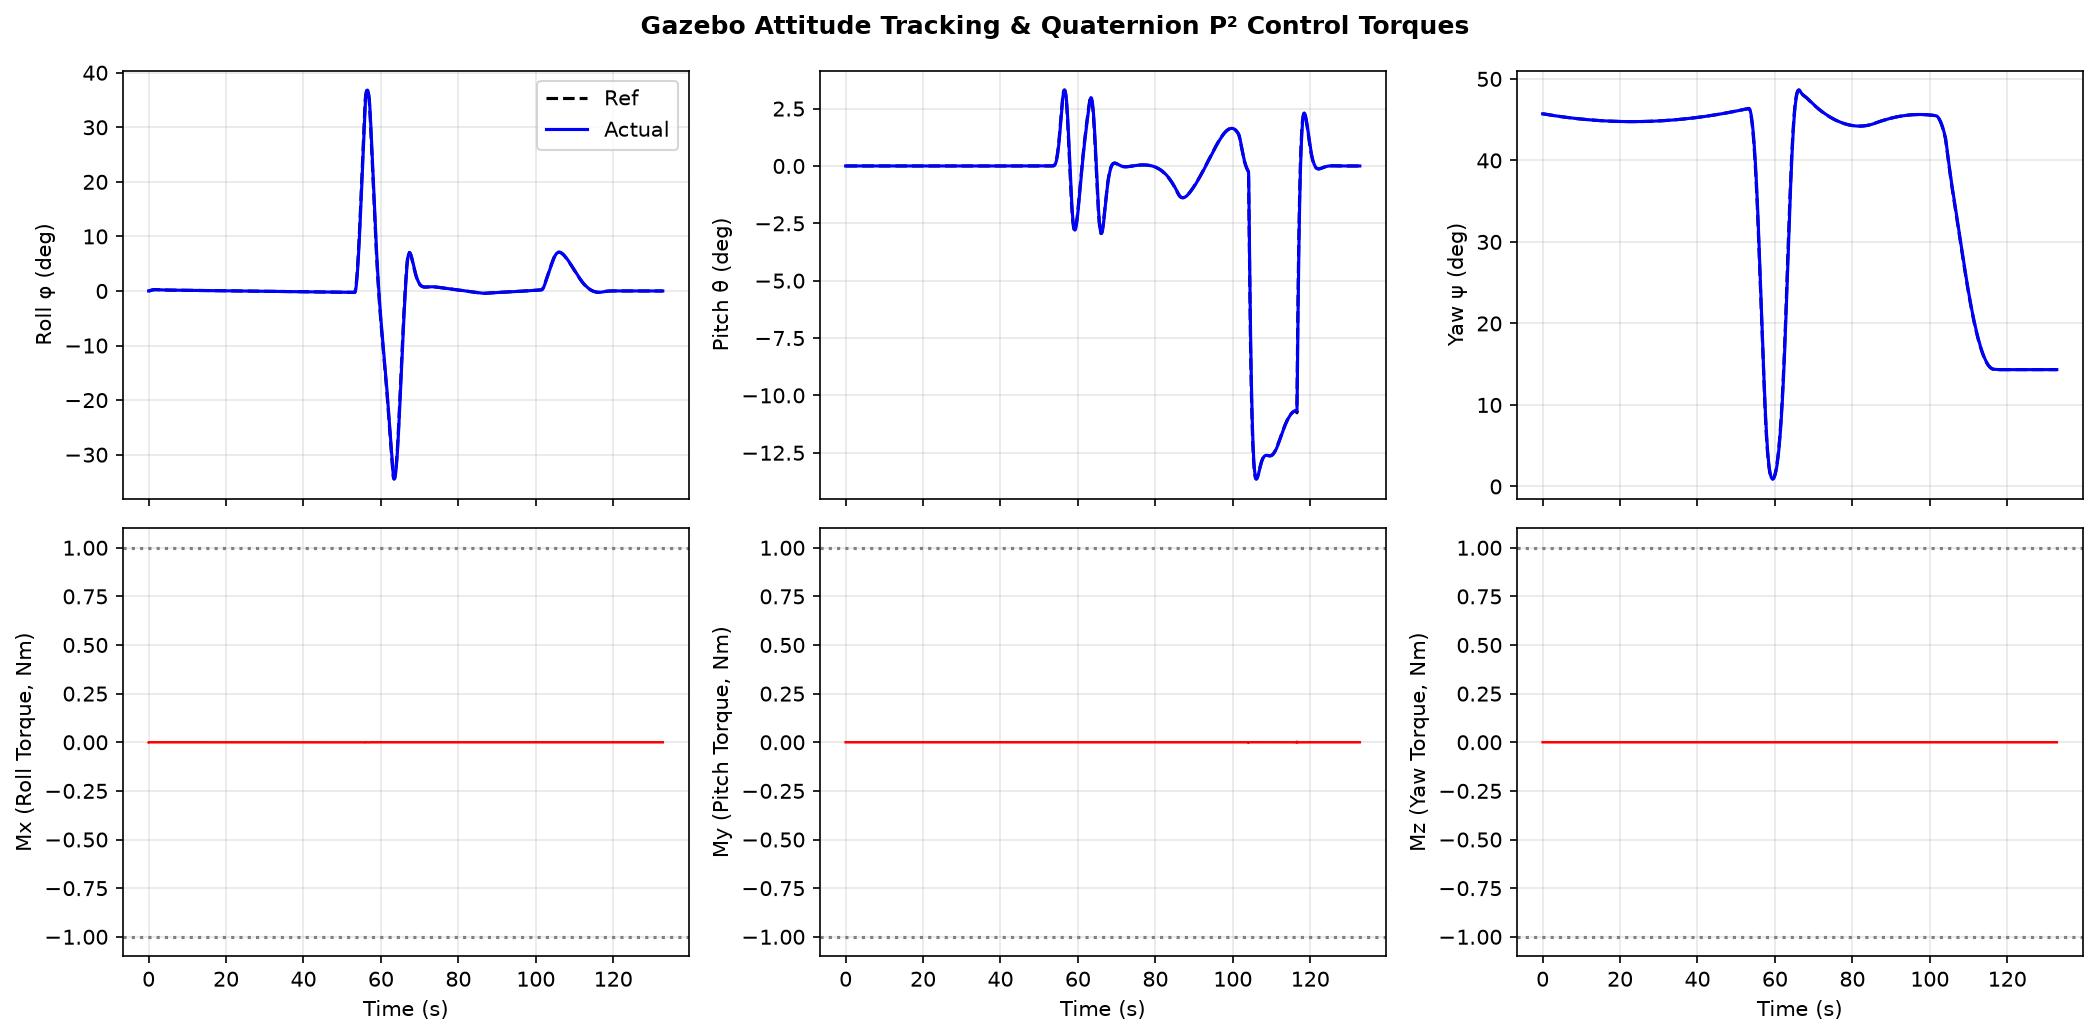
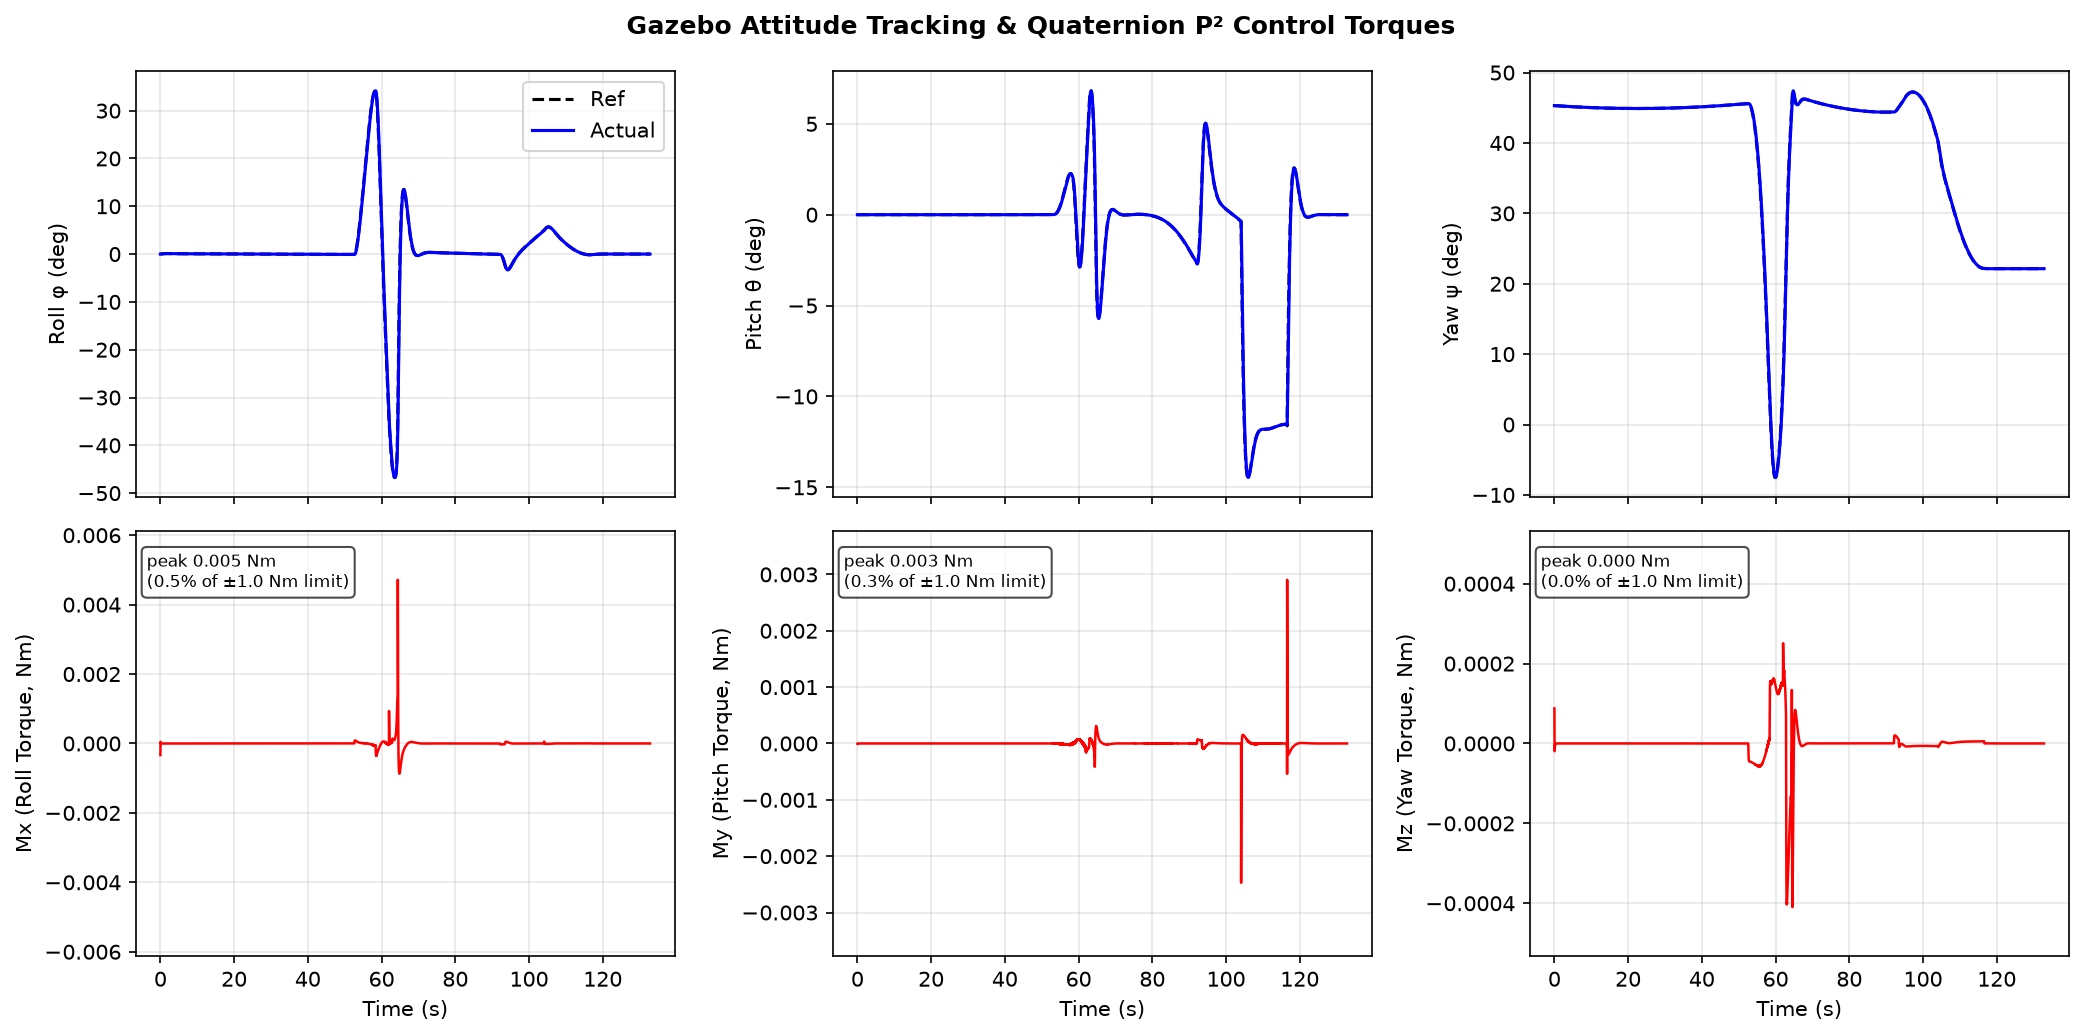
feat: enhance paper 1 simulation visualizations with a metrics comparison plot and updated quadrotor pose

diff --git a/gazebo/simulate_paper1.py b/gazebo/simulate_paper1.py
@@ -153,43 +153,121 @@ def run_paper1_gazebo_benchmark(seeds=[42, 123]):
 
     # Visualization
     env_sample, b_wp, s_u, s_c, s_a = sample_vis_data
-    fig = plt.figure(figsize=(14, 6))
+    pts_u = s_u.sample_path(400)
+    pts_c = s_c.sample_path(400)
+    pts_a = s_a.sample_path(400)
+
+    fig = plt.figure(figsize=(16, 6.5))
 
     # Subplot 1: 3D Paths in Gazebo Environment
-    ax1 = fig.add_subplot(121, projection='3d')
+    ax1 = fig.add_subplot(131, projection='3d')
     env_sample.visualize(ax1)
     ax1.plot(b_wp[:, 0], b_wp[:, 1], b_wp[:, 2], 'k:', lw=1.5, label='Baseline (A*)')
-    pts_u = s_u.sample_path(200)
-    pts_c = s_c.sample_path(200)
-    pts_a = s_a.sample_path(200)
     ax1.plot(pts_u[:, 0], pts_u[:, 1], pts_u[:, 2], 'b--', lw=1.5, label='Uniform B-Spline')
     ax1.plot(pts_c[:, 0], pts_c[:, 1], pts_c[:, 2], 'g-.', lw=1.5, label='Classical B-Spline')
     ax1.plot(pts_a[:, 0], pts_a[:, 1], pts_a[:, 2], 'r-', lw=2.5, label='Adaptive B-Spline (GA)')
-    ax1.set_title('Gazebo 3D Airspace Path Comparison', fontsize=12, fontweight='bold')
-    ax1.legend(fontsize=8, loc='upper left')
+    ax1.set_title('Full Airspace', fontsize=11, fontweight='bold')
+    ax1.legend(fontsize=7, loc='upper left')
 
-    # Subplot 2: Curvature Profiles Along Path
-    ax2 = fig.add_subplot(122)
-    u_vals = np.linspace(0.01, 0.99, 150)
-    k_u = [s_u.compute_curvature(u) for u in u_vals]
-    k_c = [s_c.compute_curvature(u) for u in u_vals]
-    k_a = [s_a.compute_curvature(u) for u in u_vals]
+    # Subplot 2: zoomed top-down (XY) view of the segment where the 4 paths diverge the most,
+    # since at full ~2000 m scale the curves sit on top of each other (they differ by <1%).
+    def resample_xy(pts, n_ref):
+        idx = np.linspace(0, len(pts) - 1, n_ref)
+        return np.column_stack([np.interp(idx, np.arange(len(pts)), pts[:, 0]),
+                                np.interp(idx, np.arange(len(pts)), pts[:, 1])])
+    n_ref = len(pts_a)
+    ref_xy = resample_xy(pts_a, n_ref)
+    spread = np.zeros(n_ref)
+    for candidate in (pts_u, pts_c):
+        cand_xy = resample_xy(candidate, n_ref)
+        spread += np.linalg.norm(cand_xy - ref_xy, axis=1)
+    peak_i = int(np.argmax(spread))
+    window = max(15, n_ref // 12)
+    lo, hi = max(0, peak_i - window), min(n_ref, peak_i + window)
 
-    ax2.plot(u_vals, k_u, 'b--', lw=1.5, label=f'Uniform (max={max(k_u):.4f})')
-    ax2.plot(u_vals, k_c, 'g-.', lw=1.5, label=f'Classical (max={max(k_c):.4f})')
-    ax2.plot(u_vals, k_a, 'r-', lw=2.0, label=f'Adaptive GA (max={max(k_a):.4f})')
-    ax2.axhline(0.5, color='orange', linestyle=':', lw=2, label='κ_max limit = 0.5')
-    ax2.set_xlabel('Path Parameter u', fontsize=11)
-    ax2.set_ylabel('Curvature κ (m⁻¹)', fontsize=11)
-    ax2.set_title('Curvature Profile Comparison (Paper 1)', fontsize=12, fontweight='bold')
+    ax2 = fig.add_subplot(132)
+    ax2.plot(b_wp[:, 0], b_wp[:, 1], 'ko:', lw=1.2, ms=3, label='Baseline (A*)')
+    ax2.plot(pts_u[lo:hi, 0], pts_u[lo:hi, 1], 'b--', lw=2.0, label='Uniform B-Spline')
+    ax2.plot(pts_c[lo:hi, 0], pts_c[lo:hi, 1], 'g-.', lw=2.0, label='Classical B-Spline')
+    ax2.plot(pts_a[lo:hi, 0], pts_a[lo:hi, 1], 'r-', lw=2.5, label='Adaptive B-Spline (GA)')
+    ax2.set_xlim(pts_a[lo:hi, 0].min() - 10, pts_a[lo:hi, 0].max() + 10)
+    ax2.set_ylim(pts_a[lo:hi, 1].min() - 10, pts_a[lo:hi, 1].max() + 10)
+    ax2.set_xlabel('X (m)', fontsize=10)
+    ax2.set_ylabel('Y (m)', fontsize=10)
+    ax2.set_title('Zoom: largest path divergence', fontsize=11, fontweight='bold')
     ax2.grid(True, alpha=0.3)
-    ax2.legend(fontsize=9)
+    ax2.legend(fontsize=7)
+    ax2.set_aspect('equal', adjustable='datalim')
 
+    # Subplot 3: Curvature Profiles Along Path, auto-scaled to the data. The 0.5 m^-1 design
+    # limit is 30-50x larger than what any method actually uses here, so drawing it to scale
+    # would flatten the differences between methods; it is reported as an annotation instead.
+    ax3 = fig.add_subplot(133)
+    u_vals = np.linspace(0.01, 0.99, 300)
+    k_u = np.array([s_u.compute_curvature(u) for u in u_vals])
+    k_c = np.array([s_c.compute_curvature(u) for u in u_vals])
+    k_a = np.array([s_a.compute_curvature(u) for u in u_vals])
+
+    ax3.plot(u_vals, k_u, 'b--', lw=1.5, label=f'Uniform (max={k_u.max():.4f})')
+    ax3.plot(u_vals, k_c, 'g-.', lw=1.5, label=f'Classical (max={k_c.max():.4f})')
+    ax3.plot(u_vals, k_a, 'r-', lw=2.0, label=f'Adaptive GA (max={k_a.max():.4f})')
+    data_max = max(k_u.max(), k_c.max(), k_a.max())
+    ax3.set_ylim(0, data_max * 1.25)
+    ax3.text(0.03, 0.95, f'κ_max design limit = 0.5 m⁻¹\n(all methods use <{100*data_max/0.5:.0f}% of it)',
+             transform=ax3.transAxes, fontsize=8, va='top',
+             bbox=dict(boxstyle='round', fc='white', alpha=0.8))
+    ax3.set_xlabel('Path Parameter u', fontsize=10)
+    ax3.set_ylabel('Curvature κ (m⁻¹)', fontsize=10)
+    ax3.set_title('Curvature Profile (zoomed)', fontsize=11, fontweight='bold')
+    ax3.grid(True, alpha=0.3)
+    ax3.legend(fontsize=8)
+
+    fig.suptitle('Gazebo 3D Airspace Path Comparison', fontsize=13, fontweight='bold')
     plt.tight_layout()
     plot_file = os.path.join(output_dir, 'gazebo_paper1_comparison.png')
     plt.savefig(plot_file, dpi=150, bbox_inches='tight')
     plt.close()
     print(f"\n[Saved Artifact] {plot_file}", flush=True)
+
+    # Metrics bar chart: the clearest "Table 2 as a chart" view for a presentation, since the
+    # 4 methods' paths are visually almost identical but their metrics differ measurably.
+    fig2, bar_axes = plt.subplots(1, 4, figsize=(18, 5))
+    metric_specs = [
+        ('length', 'Path Length (m)', '{:.0f}'),
+        ('kappa', 'Max Curvature (m⁻¹)', '{:.4f}'),
+        ('time', 'Computation Time (s)', '{:.2f}'),
+        ('SR', 'Straightness Ratio', '{:.3f}'),
+    ]
+    colors = ['#7f7f7f', '#1f77b4', '#2ca02c', '#d62728']
+    for ax, (key, label, fmt) in zip(bar_axes, metric_specs):
+        vals = [np.mean(results[m][key]) for m in methods]
+        bars = ax.bar(range(len(methods)), vals, color=colors)
+        ax.set_xticks(range(len(methods)))
+        ax.set_xticklabels([display_names[m] for m in methods], fontsize=8, rotation=20, ha='right')
+        ax.set_title(label, fontsize=10, fontweight='bold')
+        ax.grid(True, axis='y', alpha=0.3)
+        span = max(vals) - min(vals)
+        pad = span * 0.2 if span > 1e-9 else max(vals) * 0.1
+        if key == 'time':
+            # Comp time genuinely spans ~0s to several seconds (GA search dominates) -
+            # a 0 baseline is the honest comparison here, not a scale trick.
+            ax.set_ylim(0, max(vals) + pad)
+        else:
+            # Length/curvature/straightness differ by a fraction of a percent between
+            # methods; zoom to the data range instead of a 0 baseline, or the bars
+            # would look identical like the overlapping path plots did.
+            ax.set_ylim(max(0, min(vals) - pad), max(vals) + pad)
+        for bar, v in zip(bars, vals):
+            label_y = bar.get_height() + pad * 0.05 if bar.get_height() >= 0 else bar.get_height() - pad * 0.15
+            ax.text(bar.get_x() + bar.get_width() / 2, label_y,
+                    fmt.format(v), ha='center', va='bottom', fontsize=7.5)
+    fig2.suptitle('Paper 1 Benchmark — Method Comparison (averaged over seeds)', fontsize=13, fontweight='bold')
+    plt.tight_layout()
+    plt.subplots_adjust(bottom=0.28, wspace=0.35)
+    bar_file = os.path.join(output_dir, 'gazebo_paper1_metrics.png')
+    plt.savefig(bar_file, dpi=150, bbox_inches='tight')
+    plt.close()
+    print(f"[Saved Artifact] {bar_file}", flush=True)
 
 
 if __name__ == '__main__':

diff --git a/gazebo/run_simulation.py b/gazebo/run_simulation.py
@@ -206,6 +206,7 @@ def run_integrated_gazebo_simulation(gui=False, seed=42, duration=None, enable_w
     fb = gazebo_env.fallback
     print(f"\n[Simulation Complete] Path progress {100 * s_travelled / profile.length:.1f}% in {sim_duration:.1f}s | "
           f"final distance to goal {final_err:.1f} m", flush=True)
+    print(f"  Max control torque: {np.abs(torque_log).max(axis=0)} Nm (limit ±{tracker.tau_limit} Nm)", flush=True)
     print(f"  Obstacle contacts: {fb.collision_count} steps"
           + (f" (first at t={fb.first_collision[0]:.1f}s, obstacle {fb.first_collision[1]})" if fb.collided else "")
           + f" | ground-contact steps: {fb.ground_contact_steps}", flush=True)
@@ -214,25 +215,53 @@ def run_integrated_gazebo_simulation(gui=False, seed=42, duration=None, enable_w
     # ── Stage 6: Generate Visualization Artifacts ──
     print("\n[Stage 6] Rendering Telemetry & Comparison Plots...", flush=True)
 
-    # Plot 1: 3D Flight Path & Obstacles
-    fig = plt.figure(figsize=(12, 9))
-    ax = fig.add_subplot(111, projection='3d')
+    # Plot 1: 3D Flight Path (full view) + zoomed top-down view of the worst-tracking segment.
+    # At full 2000 m scale the reference and actual paths sit on top of each other (tracking
+    # error stays under ~5 m out of a ~2800 m flight), so a zoom around the largest error is
+    # shown alongside the full picture to make the (small, real) tracking gap visible.
+    peak_idx = int(np.argmax(err_pos_log))
+    peak_err = float(err_pos_log[peak_idx])
+    half_window = max(50, int(2.0 / dt_sim))  # ~2s of flight either side of the peak
+    lo, hi = max(0, peak_idx - half_window), min(len(t_log), peak_idx + half_window)
+
+    fig = plt.figure(figsize=(15, 7.5))
+    ax = fig.add_subplot(121, projection='3d')
     env_3d.visualize(ax)
     ax.plot(baseline_wp[:, 0], baseline_wp[:, 1], baseline_wp[:, 2], 'k:', lw=1.2, label='A* Waypoints')
     ax.plot(spline_pts[:, 0], spline_pts[:, 1], spline_pts[:, 2], 'b--', lw=1.5, label='B-Spline Reference')
     ax.plot(pos_actual_log[:, 0], pos_actual_log[:, 1], pos_actual_log[:, 2], 'r-', lw=2.5, label='Simulated Quadrotor Trajectory')
     ax.scatter(env_3d.start[0], env_3d.start[1], env_3d.start[2], c='green', s=100, label='Start')
     ax.scatter(env_3d.goal[0], env_3d.goal[1], env_3d.goal[2], c='gold', s=100, label='Goal')
-    ax.set_title('Gazebo 3D UAV Flight in Cluttered Airspace', fontsize=13, fontweight='bold')
-    ax.legend(loc='upper left', fontsize=9)
+    ax.scatter(*pos_actual_log[peak_idx], c='magenta', s=80, marker='x', linewidths=2.5,
+               label=f'Peak error ({peak_err:.1f} m)')
+    ax.set_title('Full Flight (2000+ m airspace)', fontsize=12, fontweight='bold')
+    ax.legend(loc='upper left', fontsize=8)
+
+    ax_zoom = fig.add_subplot(122)
+    ax_zoom.plot(pos_target_log[lo:hi, 0], pos_target_log[lo:hi, 1], 'k--', lw=2.0, label='Reference')
+    ax_zoom.plot(pos_actual_log[lo:hi, 0], pos_actual_log[lo:hi, 1], 'r-', lw=2.0, label='Actual')
+    ax_zoom.scatter(*pos_actual_log[peak_idx, :2], c='magenta', s=90, marker='x', linewidths=2.5, zorder=5)
+    ax_zoom.annotate(f'{peak_err:.1f} m gap\nat t={t_log[peak_idx]:.1f}s',
+                     xy=pos_actual_log[peak_idx, :2], xytext=(15, 15), textcoords='offset points',
+                     fontsize=9, arrowprops=dict(arrowstyle='->', color='magenta'))
+    ax_zoom.set_xlabel('X (m)', fontsize=11)
+    ax_zoom.set_ylabel('Y (m)', fontsize=11)
+    ax_zoom.set_title(f'Zoom: worst-tracking segment (top-down, t={t_log[lo]:.0f}-{t_log[hi-1]:.0f}s)',
+                      fontsize=12, fontweight='bold')
+    ax_zoom.grid(True, alpha=0.3)
+    ax_zoom.legend(fontsize=9)
+    ax_zoom.set_aspect('equal', adjustable='datalim')
+
+    fig.suptitle('Gazebo 3D UAV Flight in Cluttered Airspace', fontsize=13, fontweight='bold')
     p1 = os.path.join(output_dir, 'gazebo_3d_flight.png')
     plt.tight_layout()
     plt.savefig(p1, dpi=150, bbox_inches='tight')
     plt.close()
     print(f"  [Saved] {p1}", flush=True)
 
-    # Plot 2: Position Tracking vs Time
-    fig, axes = plt.subplots(3, 1, figsize=(11, 7), sharex=True)
+    # Plot 2: Position Tracking vs Time + per-axis tracking error (own, auto-scaled axis so the
+    # (small) gap between reference and actual is legible instead of vanishing at the 2000 m scale).
+    fig, axes = plt.subplots(4, 1, figsize=(11, 9), sharex=True)
     coords = ['X (m)', 'Y (m)', 'Z (m)']
     for i in range(3):
         axes[i].plot(t_log, pos_target_log[:, i], 'k--', lw=1.5, label='Reference')
@@ -241,6 +270,14 @@ def run_integrated_gazebo_simulation(gui=False, seed=42, duration=None, enable_w
         axes[i].grid(True, alpha=0.3)
         if i == 0:
             axes[i].legend(loc='upper right')
+
+    err_xyz = pos_actual_log - pos_target_log
+    for i, (name, color) in enumerate(zip(coords, ['tab:blue', 'tab:orange', 'tab:green'])):
+        axes[3].plot(t_log, err_xyz[:, i], color=color, lw=1.2, label=f'{name[0]} error')
+    axes[3].set_ylabel('Tracking Error (m)', fontsize=10)
+    axes[3].grid(True, alpha=0.3)
+    axes[3].legend(loc='upper right', fontsize=8, ncol=3)
+    axes[3].set_title('Per-axis tracking error (zoomed, own scale)', fontsize=10)
     axes[-1].set_xlabel('Time (s)', fontsize=11)
     fig.suptitle('Gazebo 3D Position Tracking Telemetry', fontsize=12, fontweight='bold')
     p2 = os.path.join(output_dir, 'gazebo_position_tracking.png')
@@ -263,8 +300,19 @@ def run_integrated_gazebo_simulation(gui=False, seed=42, duration=None, enable_w
             axes[0, i].legend()
 
         axes[1, i].plot(t_log, torque_log[:, i], 'r-', lw=1.2)
-        axes[1, i].axhline(tracker.tau_limit, color='gray', linestyle=':')
-        axes[1, i].axhline(-tracker.tau_limit, color='gray', linestyle=':')
+        peak_tau = float(np.max(np.abs(torque_log[:, i])))
+        # Auto-scale to the actual commanded torque: with I ~ 1e-3 kg*m^2 the controller only
+        # needs a small fraction of the +-tau_limit saturation bound, which would otherwise
+        # flatten this subplot into an invisible line at 0.
+        margin = max(peak_tau * 1.3, 1e-4)
+        if margin < tracker.tau_limit:
+            axes[1, i].set_ylim(-margin, margin)
+            axes[1, i].text(0.02, 0.95, f'peak {peak_tau:.3f} Nm\n({100*peak_tau/tracker.tau_limit:.1f}% of ±{tracker.tau_limit:.1f} Nm limit)',
+                            transform=axes[1, i].transAxes, fontsize=8, va='top',
+                            bbox=dict(boxstyle='round', fc='white', alpha=0.7))
+        else:
+            axes[1, i].axhline(tracker.tau_limit, color='gray', linestyle=':')
+            axes[1, i].axhline(-tracker.tau_limit, color='gray', linestyle=':')
         axes[1, i].set_ylabel(torque_names[i])
         axes[1, i].set_xlabel('Time (s)')
         axes[1, i].grid(True, alpha=0.3)
